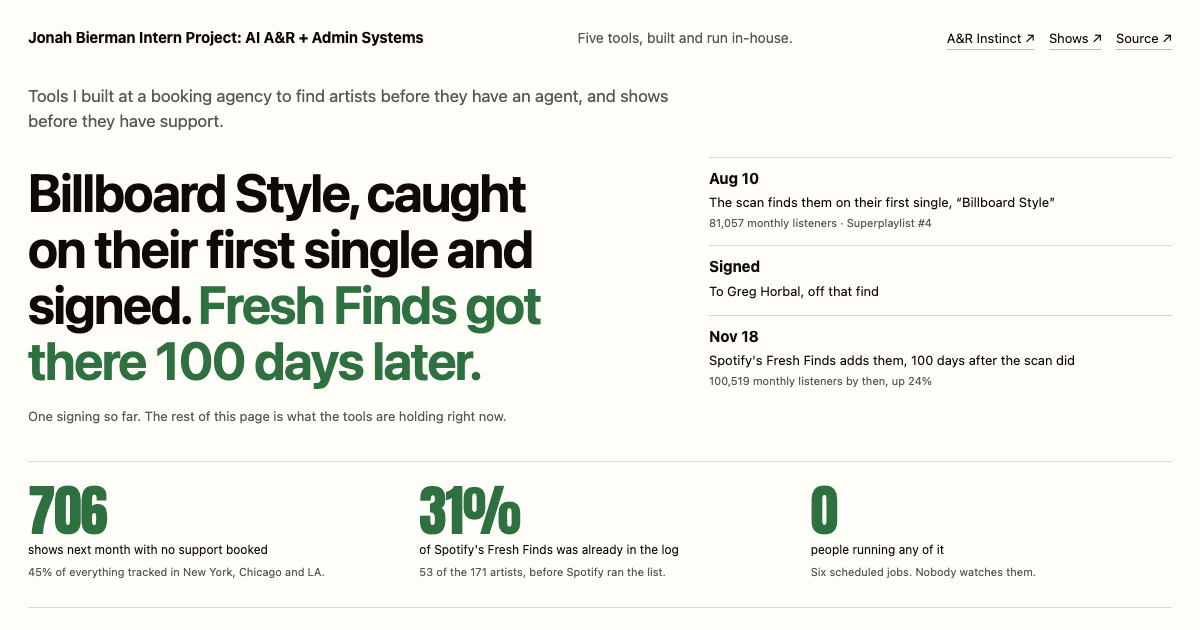
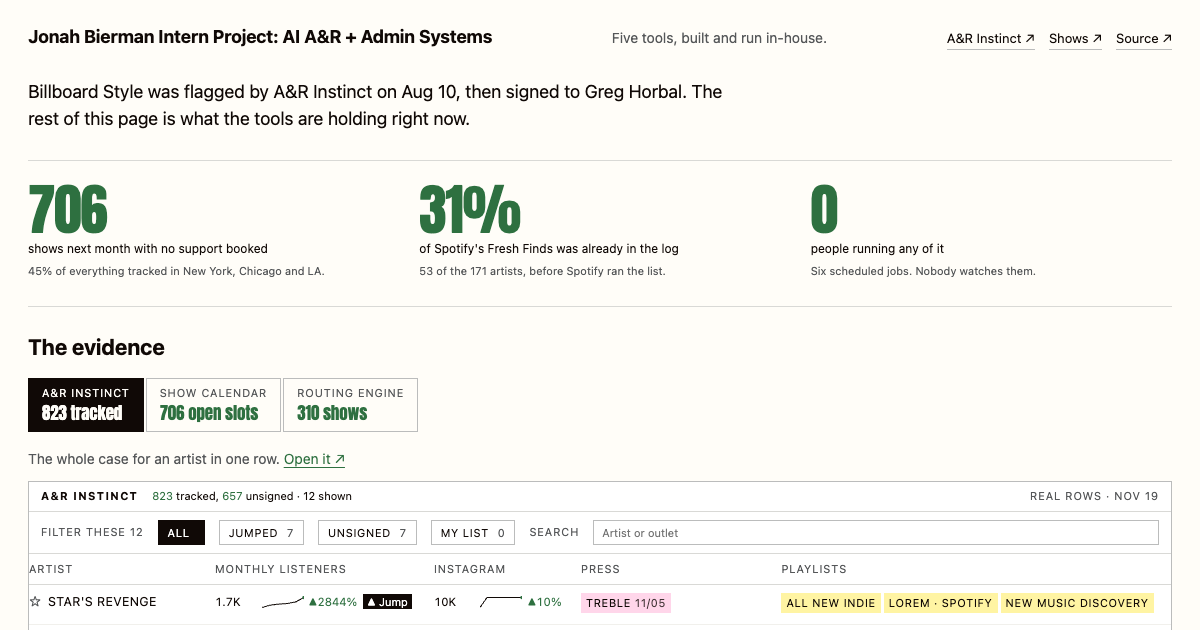
Lead: drop headline, one-line Billboard Style signing to Greg Horbal

diff --git a/index.html b/index.html
@@ -46,34 +46,15 @@
     display: flex; flex-wrap: wrap; align-items: baseline; justify-content: space-between;
     gap: 8px 24px; padding-block: 26px 0;
   }
-  .mast .mark { font-family: var(--sans); font-weight: 700; font-size: 15px; letter-spacing: -0.01em; }
+  .mast .mark { margin: 0; font-family: var(--sans); font-weight: 700; font-size: 18px; line-height: 1.25; letter-spacing: -0.01em; }
   .mast p { margin: 0; font-size: 14px; color: var(--muted); max-width: 52ch; }
   .mast nav { display: flex; flex-wrap: wrap; gap: 4px 14px; }
   .mast nav a { font-family: var(--sans); font-size: 13px; color: var(--ink); text-decoration: none; border-bottom: 1px solid var(--grey4); }
   .mast nav a:hover { color: var(--green); border-bottom-color: var(--green); }
 
   /* the lead: the signing */
-  .lead { padding-block: 34px 34px; border-bottom: 1px solid var(--grey1); }
-  .intro { margin: 0 0 22px; max-width: 62ch; font-size: 17px; line-height: 1.5; color: var(--muted); }
-  .story { display: grid; grid-template-columns: minmax(0, 1.35fr) minmax(0, 1fr); gap: 24px 56px; align-items: end; }
-  .story .lead-list, .story ol { margin-top: 0 !important; grid-template-columns: 1fr !important; max-width: none; }
-  @media (max-width: 1000px) { .story { grid-template-columns: 1fr; } .story ol { margin-top: 6px !important; } }
-  .lead h1 {
-    margin: 0; font-family: var(--sans); font-weight: 650; text-wrap: balance;
-    font-size: clamp(30px, 4.4vw, 54px); line-height: 1.06; letter-spacing: -0.03em;
-    max-width: 22ch;
-  }
-  .lead h1 em { font-style: normal; color: var(--green); }
-  .lead ol {
-    margin: 22px 0 0; padding: 0; list-style: none;
-    display: grid; grid-template-columns: repeat(3, minmax(0, 1fr)); gap: 14px 30px;
-    max-width: 62rem;
-  }
-  .lead li { font-family: var(--sans); font-size: 13px; line-height: 1.45; border-top: 1px solid var(--grey1); padding-top: 10px; }
-  .lead li b { display: block; font-family: var(--mono); font-weight: 700; font-size: 15px; margin-bottom: 4px; }
-  .lead .when { display: block; color: var(--muted); font-size: 11px; margin-top: 3px; }
-  .onlyone { margin: 18px 0 0; font-size: 13px; color: var(--muted); font-family: var(--sans); }
-  @media (max-width: 760px) { .lead ol { grid-template-columns: 1fr; } }
+  .lead { padding-block: 28px; border-bottom: 1px solid var(--grey1); }
+  .onlyone { margin: 0; font-size: 18px; line-height: 1.5; color: var(--ink); font-family: var(--sans); max-width: 62ch; }
 
   /* the four numbers that matter */
   .nums {
@@ -233,7 +214,7 @@
 <div class="wrap">
 
   <header class="mast">
-    <span class="mark">Jonah Bierman Intern Project: AI A&amp;R + Admin Systems</span>
+    <h1 class="mark">Jonah Bierman Intern Project: AI A&amp;R + Admin Systems</h1>
     <p>Five tools, built and run in-house.</p>
     <nav>
       <a href="https://ilovemyphone30000.github.io/instinct/">A&amp;R Instinct &#8599;</a>
@@ -244,20 +225,7 @@
 
   <main id="main" tabindex="-1">
   <section class="lead">
-    <p class="intro">Tools I built at a booking agency to find artists before they have an agent, and shows before they have support.</p>
-    <div class="story">
-    <h1>Billboard Style, caught on their first single and signed.
-      <em>Fresh Finds got there 100 days later.</em></h1>
-    <ol>
-      <li><b>Aug 10</b>The scan finds them on their first single, &ldquo;Billboard Style&rdquo;
-        <span class="when">81,057 monthly listeners &middot; Superplaylist #4</span></li>
-      <li><b>Signed</b>To Greg Horbal, off that find
-</li>
-      <li><b>Nov 18</b>Spotify's Fresh Finds adds them, 100 days after the scan did
-        <span class="when">100,519 monthly listeners by then, up 24%</span></li>
-    </ol>
-    </div>
-    <p class="onlyone">One signing so far. The rest of this page is what the tools are holding right now.</p>
+    <p class="onlyone">Billboard Style was flagged by A&amp;R Instinct on Aug 10, then signed to Greg Horbal. The rest of this page is what the tools are holding right now.</p>
   </section>
 
   <section class="nums" aria-label="What the tools are holding">
